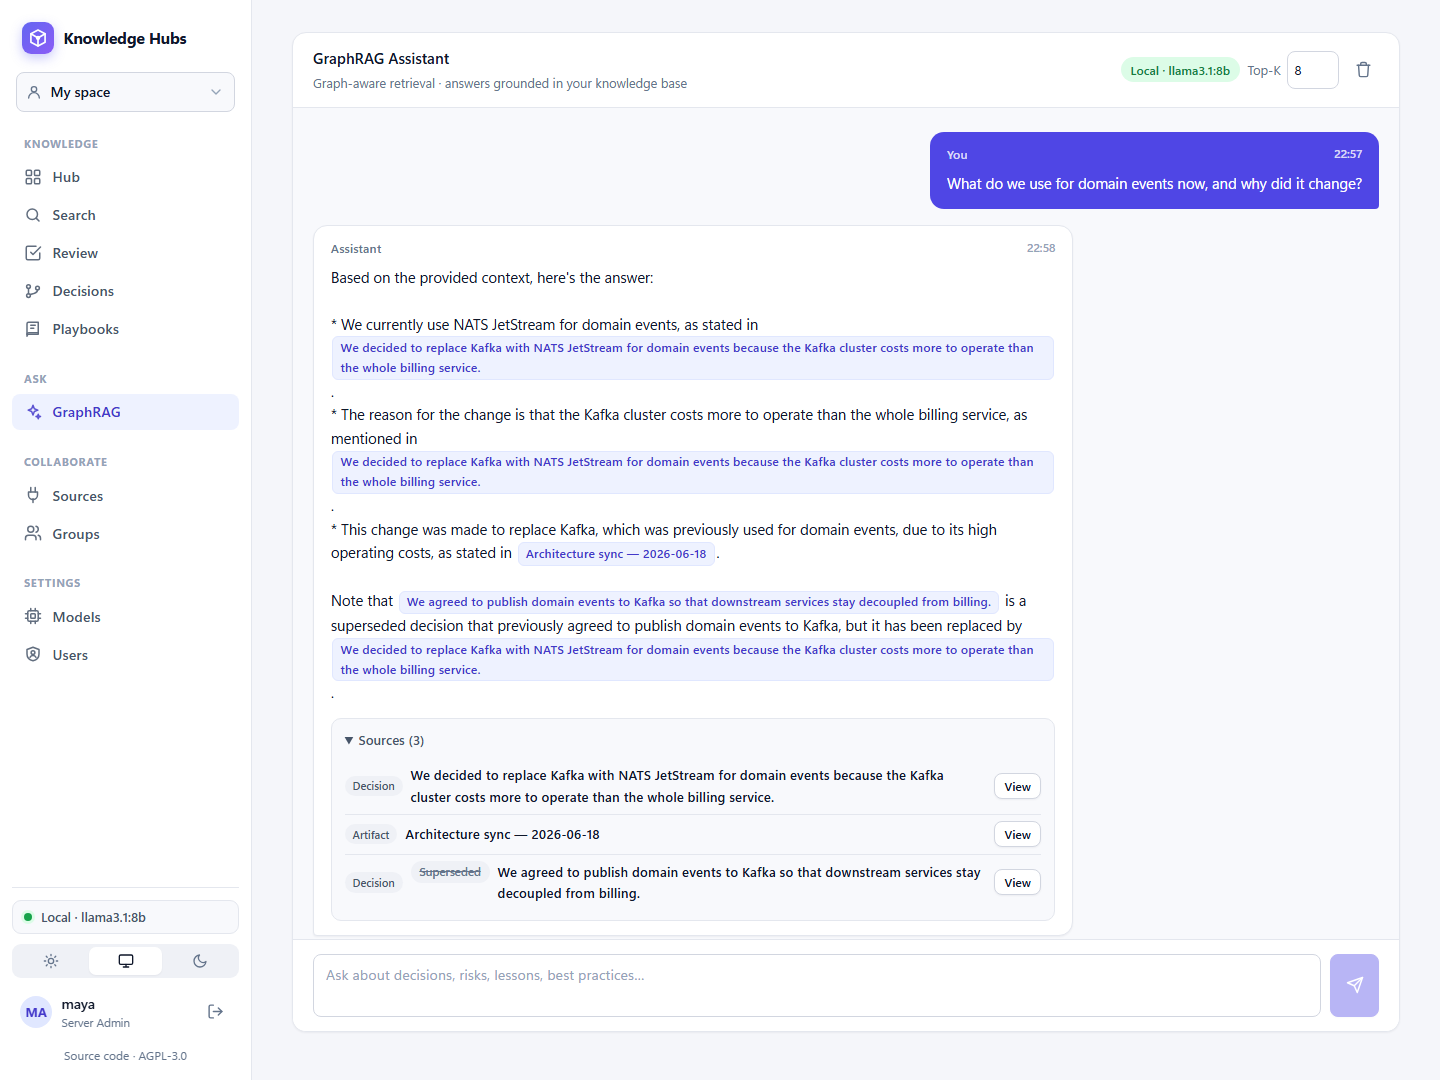
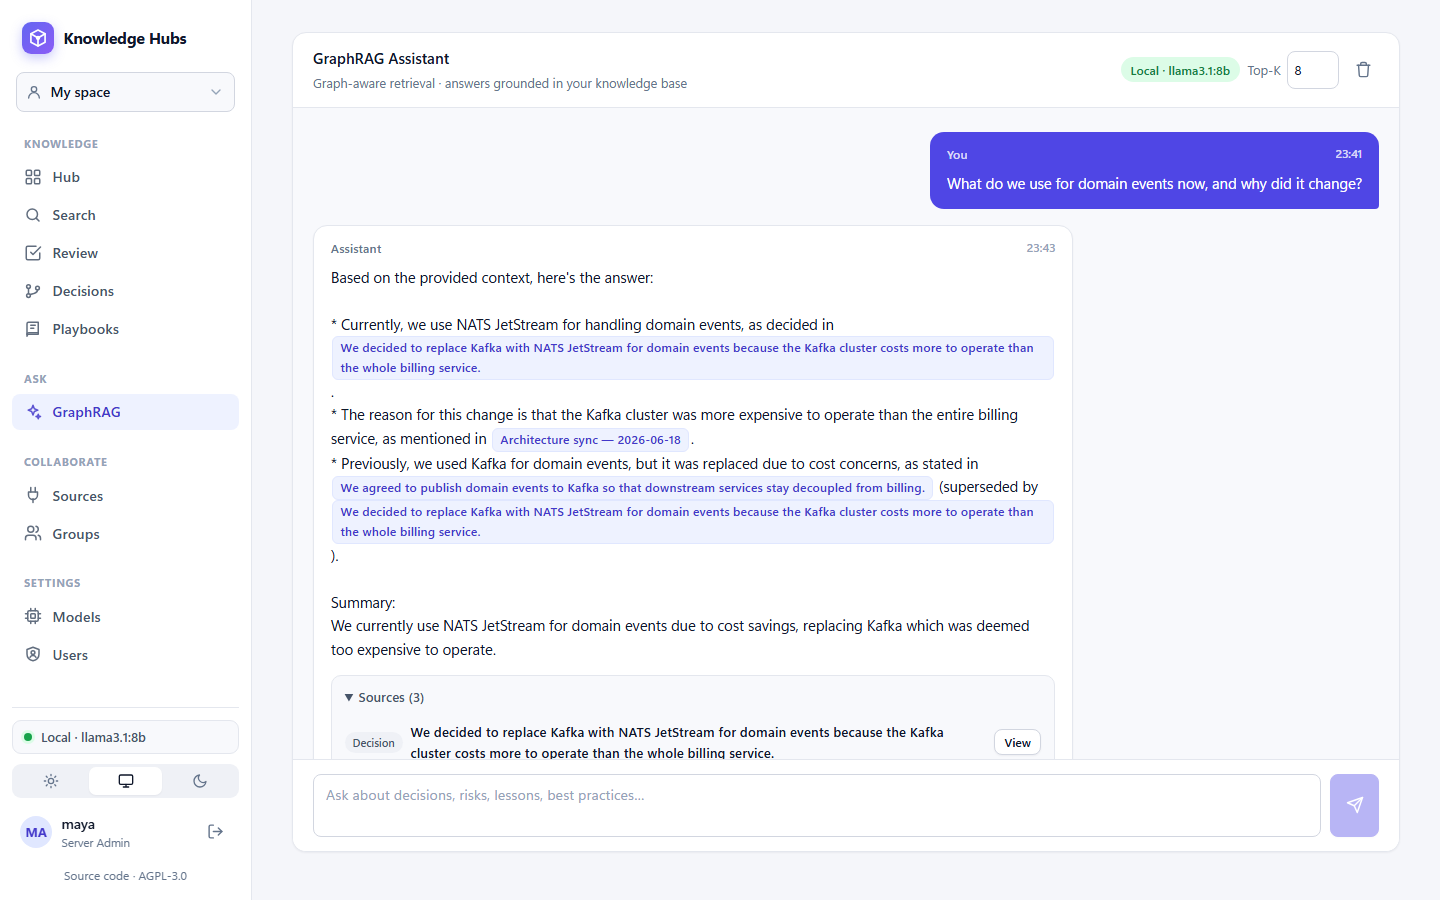
Add screenshots of every page and an animated tour to the README

diff --git a/README.md b/README.md
@@ -5,20 +5,9 @@
 
 A **local-first knowledge base** for teams. It turns meeting notes, retros, decision logs, documents, web pages and transcripts into structured knowledge (decisions, risks, lessons, how-tos) that you can review, search, track over time and question in plain English.
 
-![GraphRAG answering "What do we use for domain events now, and why did it change?" with citations, and flagging the superseded Kafka decision](docs/images/graphrag.png)
+![A tour of Knowledge Hubs: Hub, Search, Review, Decisions, Playbooks, GraphRAG, Sources, Groups, Models and Users](docs/images/tour.gif)
 
-<table>
-  <tr>
-    <td width="50%"><img src="docs/images/decisions.png" alt="Decision log: each decision's status, tags, and the older decision it supersedes or amends"></td>
-    <td width="50%"><img src="docs/images/review.png" alt="Review queue: extracted items waiting to be accepted, edited or rejected"></td>
-  </tr>
-  <tr>
-    <td align="center"><b>Decision log</b>: status, history and what replaced what</td>
-    <td align="center"><b>Review queue</b>: nothing reaches GraphRAG until someone accepts it</td>
-  </tr>
-</table>
-
-<sub>Screenshots use fictional demo data.</sub>
+<sub>Fictional demo data. Each page on its own: [Screenshots](docs/screenshots.md).</sub>
 
 - **Runs on your machine.** FastAPI backend, Angular frontend, **ArcadeDB** as the only data store, and local AI: one of three LLMs run by [Ollama](docs/local-models.md) plus sentence-transformers embeddings. There are no cloud AI providers.
 - **Personal and group spaces.** Everyone has a private space and can create or join groups that share one. A switcher in the nav picks where you're working.
@@ -28,13 +17,16 @@ A **local-first knowledge base** for teams. It turns meeting notes, retros, deci
 
 | Page | What you do there |
 |---|---|
-| **Hub** | Add knowledge: paste text, upload a file (PDF, TXT, MD, DOCX), fetch a URL, or submit a transcript, email thread or Slack export. Browse, see the graph, cross-link items, export and import the space |
-| **Search** | Full-text search over items and sources, filtered by type, source and tag |
-| **Review** | Accept, edit or reject extracted items before GraphRAG uses them |
-| **Decisions** | The decision log and risk register, with each item's status and what replaced it |
-| **Playbooks** | Repeatable procedures, written as steps or built from how-tos and checklists in the space |
-| **Sources** | Connectors that pull in transcripts, notes, ADRs, pull requests and issues |
-| **GraphRAG** | Ask questions; answers cite the items they used and flag superseded decisions |
+| [**Hub**](docs/images/hub.png) | Add knowledge: paste text, upload a file (PDF, TXT, MD, DOCX), fetch a URL, or submit a transcript, email thread or Slack export. Browse, see the graph, cross-link items, export and import the space |
+| [**Search**](docs/images/search.png) | Full-text search over items and sources, filtered by type, source and tag |
+| [**Review**](docs/images/review.png) | Accept, edit or reject extracted items before GraphRAG uses them |
+| [**Decisions**](docs/images/decisions.png) | The decision log and risk register, with each item's status and what replaced it |
+| [**Playbooks**](docs/images/playbooks.png) | Repeatable procedures, written as steps or built from how-tos and checklists in the space |
+| [**Sources**](docs/images/sources.png) | Connectors that pull in transcripts, notes, ADRs, pull requests and issues |
+| [**GraphRAG**](docs/images/graphrag.png) | Ask questions; answers cite the items they used and flag superseded decisions |
+| [**Groups**](docs/images/groups.png) | Create groups, invite people and share a space with them |
+| [**Models**](docs/images/models.png) | Download, switch or remove the local LLMs; re-embed the knowledge base |
+| [**Users**](docs/images/users.png) *(server admins)* | Create accounts, change roles, see inactive accounts due for deletion |
 
 More in [Features](docs/features.md).
 
@@ -58,6 +50,7 @@ To use a GPU, an Ollama you already run, or to work on the code with live reload
 |---|---|
 | [Getting started](docs/getting-started.md) | Docker in one command, running from source, migrating from the SQLite version |
 | [Features](docs/features.md) | What each page does, how knowledge is extracted, search and cross-linking |
+| [Screenshots](docs/screenshots.md) | Every page of the app |
 | [Production deployment](docs/deployment.md) | The multi-instance stack in `deploy/`: TLS, load balancing, worker, ArcadeDB cluster, operations |
 | [Configuration](docs/configuration.md) | Every environment variable |
 | [Accounts, roles and spaces](docs/accounts-and-spaces.md) | Server admins, groups, personal and shared spaces |

diff --git a/docs/screenshots.md b/docs/screenshots.md
@@ -1,0 +1,63 @@
+# Screenshots
+
+Every page of the app, in sidebar order. The data is fictional: a demo "Platform team" with a few meeting notes, a retrospective, a release process and a security review. See [Features](features.md) for what each page does.
+
+## Hub
+
+Add knowledge from text, files, URLs or transcripts, and browse everything in the space.
+
+![Hub: the ingest panel and the list of artifacts in the space](images/hub.png)
+
+## Search
+
+Full-text search over items and sources, filtered by type, source and tag.
+
+![Search results for "database": a best practice and two meeting notes](images/search.png)
+
+## Review
+
+Extracted items wait here until someone accepts, edits or rejects them. GraphRAG only uses accepted items.
+
+![Review queue with three pending items](images/review.png)
+
+## Decisions
+
+The decision log and risk register, with each item's status and the decision it supersedes or amends.
+
+![Decision log showing active decisions and what each one replaced](images/decisions.png)
+
+## Playbooks
+
+Repeatable procedures, written as steps or built from how-tos and checklists in the space.
+
+![Two playbooks: Production release and On-call handover](images/playbooks.png)
+
+## GraphRAG
+
+Ask questions in plain English. Answers cite the items they used and point out decisions that were replaced.
+
+![GraphRAG answering "What do we use for domain events now, and why did it change?" with citations, including a superseded decision](images/graphrag.png)
+
+## Sources
+
+Connectors for folders, git ADRs, GitHub, Jira and Linear. They sync only when someone clicks **Sync now**.
+
+![Three configured connectors: GitHub, Jira and Linear](images/sources.png)
+
+## Groups
+
+Create groups, invite people and share a space with them.
+
+![The Platform team group with three members and one pending invitation](images/groups.png)
+
+## Models
+
+Download, switch or remove the local LLMs, and re-embed the knowledge base.
+
+![Model manager: Llama 3.1 8B in use, Mistral 7B and GPT-OSS 20B available to download](images/models.png)
+
+## Users
+
+Server admins create accounts, change roles and see which accounts and groups are due for deletion.
+
+![Users page: account creation, the inactivity clean-up status and four accounts](images/users.png)

diff --git a/CHANGELOG.md b/CHANGELOG.md
@@ -9,6 +9,7 @@ Notable changes to Knowledge Hubs. The format follows [Keep a Changelog](https:/
 - Documentation split into [`docs/`](docs/), plus `CONTRIBUTING.md`, `SECURITY.md`, a code of conduct, issue and pull request templates.
 - Continuous integration: backend tests (with ArcadeDB and Redis), frontend tests and build, and the Docker images.
 - A "Source code" link in the app's sidebar, as the AGPL requires for network use.
+- A screenshot of every page in `docs/images/`, a [screenshot gallery](docs/screenshots.md), and an animated tour at the top of the README.
 
 ### Changed
 - **License: GPL-3.0 → AGPL-3.0.**

diff --git a/docs/README.md b/docs/README.md
@@ -3,6 +3,7 @@
 **Using it**
 - [Getting started](getting-started.md): Docker in one command, running from source, migrating from the SQLite version
 - [Features](features.md): what each page does, extraction, search and cross-linking
+- [Screenshots](screenshots.md): every page of the app
 - [Accounts, roles and spaces](accounts-and-spaces.md)
 - [Decision tracking](decision-tracking.md)
 - [Connectors](connectors.md)
